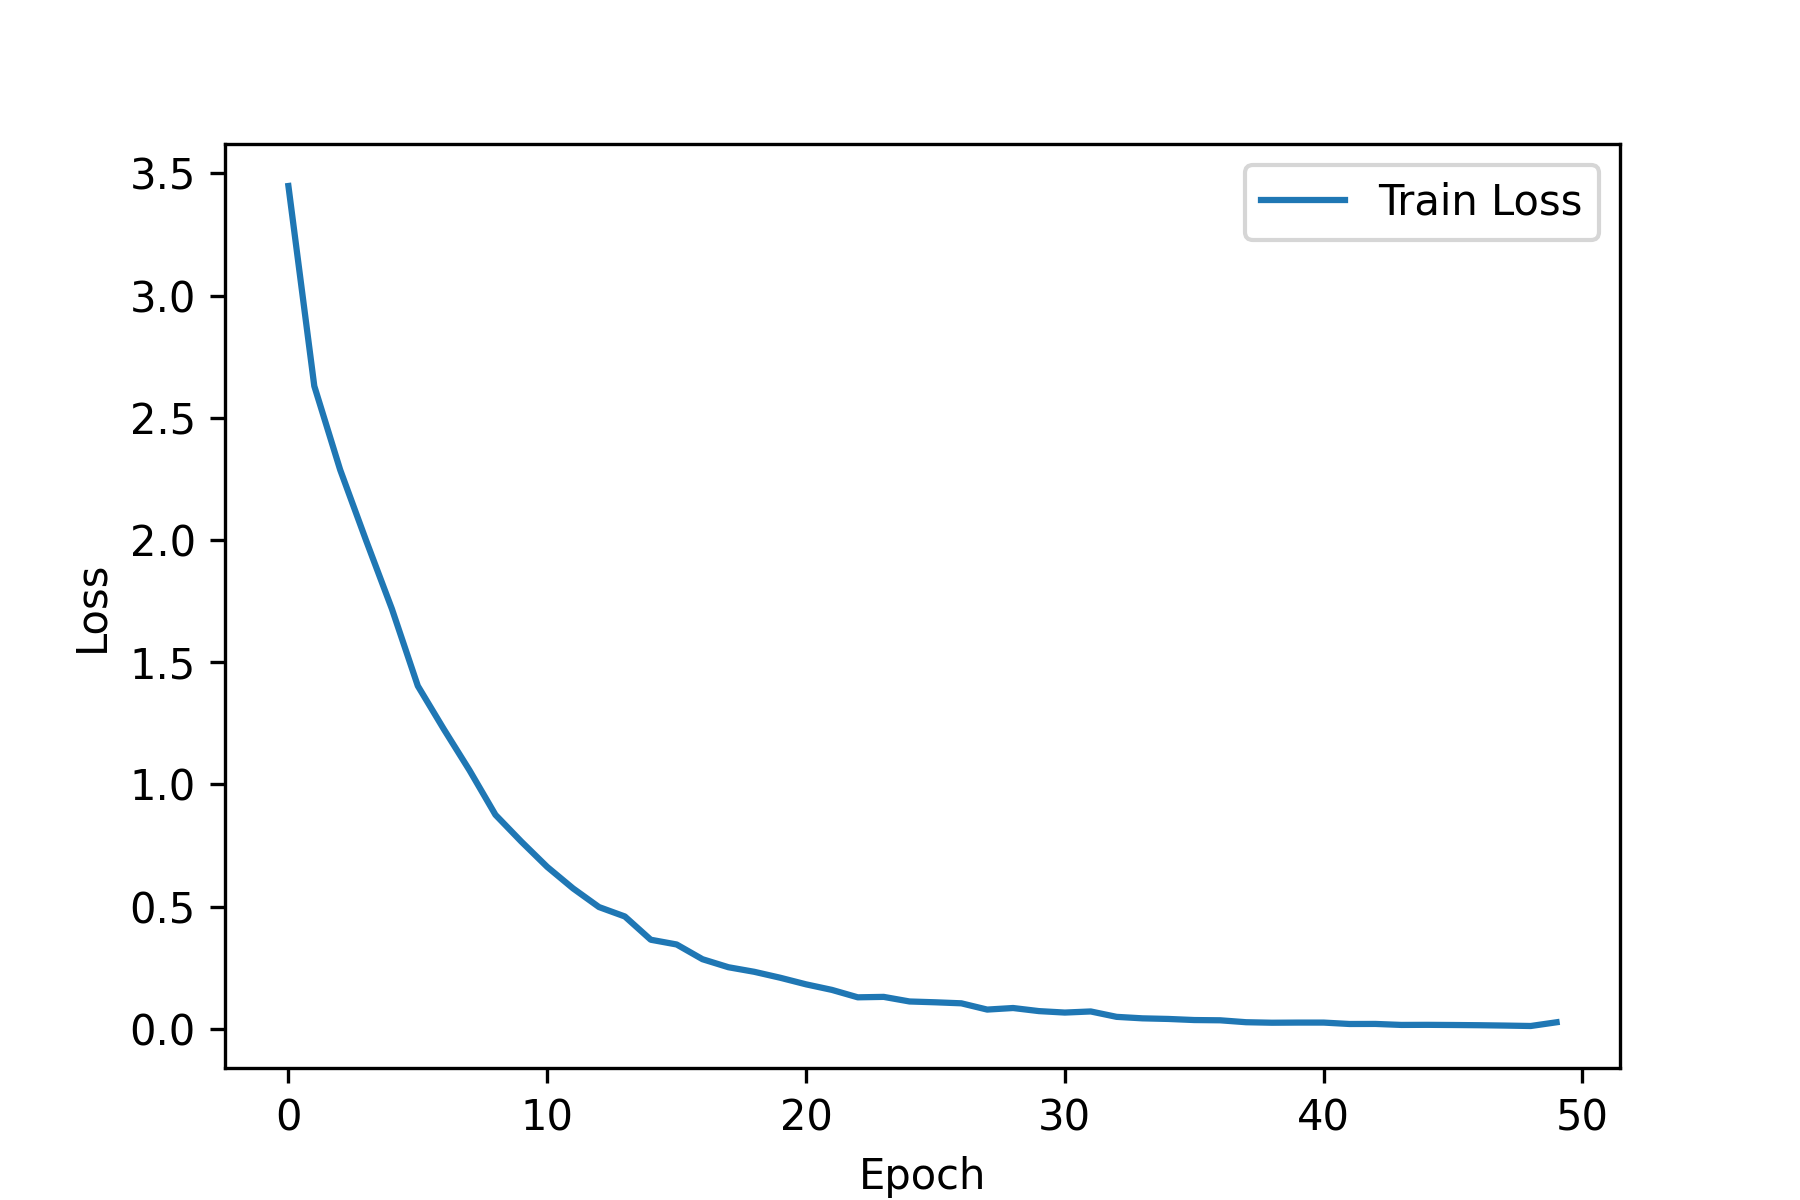
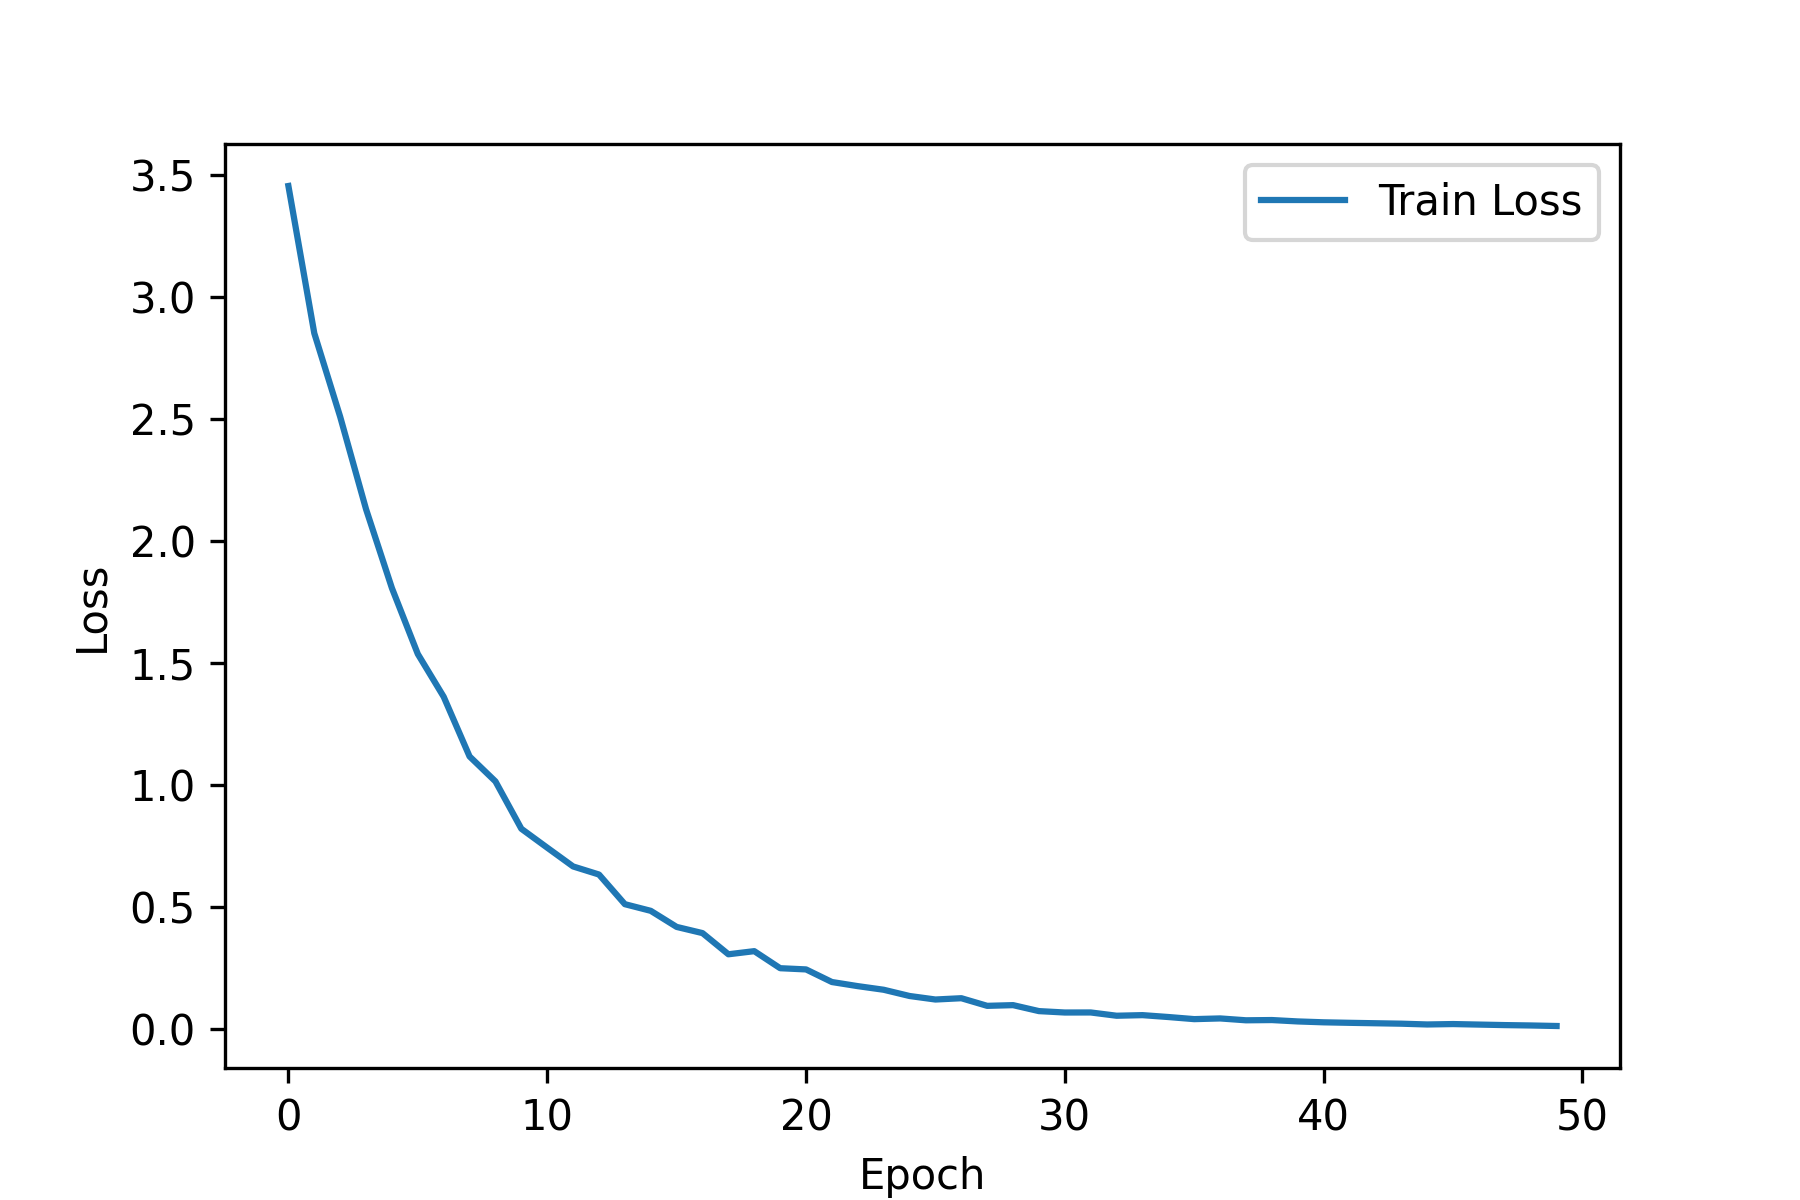
week10

diff --git a/week10/my_bert.py b/week10/my_bert.py
@@ -1,0 +1,92 @@
+#  -*- utf-8 -*-
+
+import re
+import random
+import torch
+from torch.utils.data import Dataset
+
+
+vocab =  ['<PAD>', '<CLS>', '<SEP>', '<MASK>', '<UNK>',
+          'i', 'like', 'cats', 'you', 'do', 'not', 'know', 'love', 'playing', 'football', '.', '!', '?', ':', ','
+          ]
+
+token2id = {token: idx for idx, token in enumerate(vocab)}
+id2token =  {idx: token for idx, token in enumerate(vocab)}
+
+
+def basic_tokenizer(text):
+    # 小写 + 保留符合
+    text = text.lower()
+    tokens = re.findall(r"[a-z]+|[.,!?]:", text)
+    return tokens
+
+def pad_or_truncate(seq, pad_value, max_len):
+     return seq[:max_len] + [pad_value] * max(max_len - len(seq), 0)
+
+def encode(tokens, max_len=12):
+    token_ids = [token2id.get(token, token2id['<UNK>']) for token in tokens]
+    token_ids = [token2id['<CLS>']] + token_ids + [token2id['<SEP>']]
+    return pad_or_truncate(token_ids, token2id['<PAD>'], max_len)
+
+
+class BertPretrainDataset(Dataset):
+    def __init__(self, sentence_pairs, tokenizer, mask_prob=0.15, max_len=12):
+        self.pairs = sentence_pairs
+        self.tokenizer = tokenizer
+        self.mask_prob = mask_prob
+        self.max_len = max_len
+
+    def __len__(self):
+        return len(self.pairs)
+
+    def random_mask(self, token_ids):
+        output = token_ids.copy()
+        labels = [-100] * len(token_ids)
+        for i in range(1, len(token_ids) - 1):
+            if random.random() < self.mask_prob:
+                labels[i] = token_ids[i]
+                prob = random.random()
+                if prob < 0.8:
+                    output[i] = token2id['<MASK>']
+                elif prob < 0.9:
+                    output[i] = random.randint(5, len(token2id) - 1)
+                else:
+                    output[i] = token_ids[i]
+
+    def __getitem__(self, index):
+        A, B, is_next = self.pairs[index]
+        all_tokens = self.tokenizer(A) + ['<SEP>'] + self.tokenizer(B)
+
+
+
+
+
+
+
+def test():
+    a = 'i like cats.'
+    b = 'do you know?'
+    a = basic_tokenizer(a)
+    b = basic_tokenizer(b)
+    all_tokens = a + ['<SEP>'] + b
+    print(encode(all_tokens))
+    # [1, 5, 6, 7, 2, 9, 8, 11, 2, 0, 0, 0]
+
+
+
+if __name__ == '__main__':
+    test()
+
+
+
+
+
+
+
+
+
+
+
+
+
+
